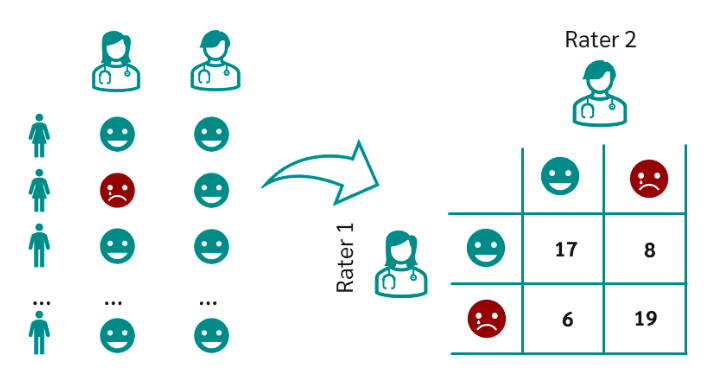
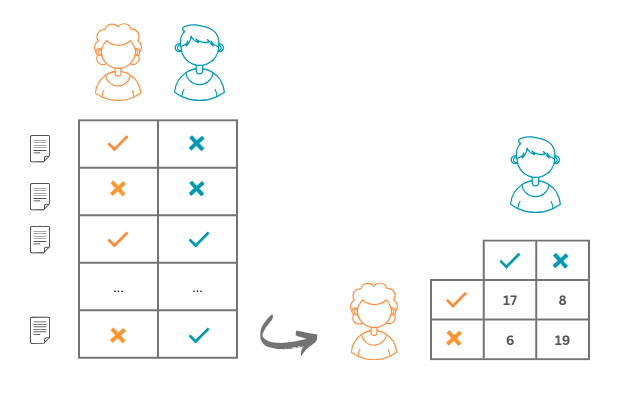
Popravke u lekciji Kako nastaju skupovi podataka

diff --git a/_sources/04_Uloga podataka/042_Kako nastaju skupovi podataka.rst b/_sources/04_Uloga podataka/042_Kako nastaju skupovi podataka.rst
@@ -1,10 +1,6 @@
 Како настају скупови података?
 ===============================
 
-.. |kns3| image:: ../../_images/kns3.png
-            :width: 100px
-
-
 .. infonote::
 
  У овој секцији ћемо одговорити на питање које ти је сигурно пало на памет у току читања садржаја: како настају скупови 
@@ -16,9 +12,13 @@
 са неког сензора, много чешће се за њихово креирање ангажује посебан тим који има одговарајуће вештине и знања и чије 
 активности треба координисати. 
 
+|
+
 Креирање скупа података започиње припремама **смерница и упутстава** које јасно описују задатак који се решева, дефинишу 
 изворе података, опсеге вредности, поделу података и ток комуникације унутар тима. Смернице обично садрже и опис алата 
 који ће се користити у раду као и одговоре на неке честе недоумице које могу да се јаве у току креирања скупа. 
+
+|
 
 Да би лакше ипратили сваки од ових корака, можемо у паралели пратити креирање скупа података за задатак препознавања 
 (детекције) лажних вести. Као што ти је познато, многе информације на вебу нису тачне - односе се на измишљене чињенице 
@@ -27,45 +27,63 @@
 Из угла машинског учења, задатак препознавања лажних вести се може посматрати као задатак бинарне класификације, 
 налик задатку класификације непожељне поште: за задати текст треба утврдити да ли је лажан или не. 
 
-Креирање скупа података започиње приступом изворима података. Извори података могу бити репозиторијуму у којима се већ 
+|
+
+Креирање скупа података започиње приступом изворима података. Извори података могу бити репозиторијуми у којима се већ 
 налазе делови скупа података, одређене странице са веба, кориснички-генерисани садржаји или било шта друго. 
 Смернице за креирање скупа података у овом случају дефинишу линкове до извора података и све што ближе одређује преузимање 
 садржаја. У примеру креирања скупа за задатак препознавања лажних вести, смернице би требало да садрже линкове до портала са којих се могу преузети новински 
 чланци за анализу, временске опсеге одређене почетним и крајњим датумом, језик чланака, можда и тему чланка. Приликом преузимања садржаја, обавезно се прате 
 права приступа и лиценце под којима су садржаји доступни. 
 
+|
+
 Након преузимања садржаја, прелази се на корак елементарне обраде података. Овај корак подразумева широк скуп радњи које се односе на додатну контролу 
 квалитета преузетих садржаја, усаглашавање формата записа, елиминацију дупликата или извора који не задовољавају неки екстерни критеријум (на пример, 
 новинска вест може бити превише кратка). 
 
+|
+
 Када се припреме садржаји, креира се тим који може да им придружи лабеле неопходне за решавање самог задатка и скуп смерница које описују њихове задатке. 
 Учесници који помажу у задацима креирања скупа података називају се **анотатори** или **лабелари**. Задатак лабелара је да у складу са смерницама свакој од улазних 
 вредности придруже одговарајућу излазну вредност. Тако, након што прочита вест, лабелар треба да придружи обележје које одговара тачној или лажној вести, на 
-пример, у смерницама за те сврхе могу бити наведени бројеви 0 и 1. Цео поступак придруживања обележја се назива анотација или **лабелирање**.
+пример, у смерницама за те сврхе могу бити наведени бројеви 0 и 1. Цео поступак придруживања обележја се назива **анотација** или **лабелирање**.
+
+|
 
 Пожељно је да улазне податке погледа и обележи већи број лабелара. Мотивација за овакав дизајн је већа поузданост самог скупа података. На пример, уколико 
 сваку вест у скупу вести прочита пет лабелара и свих пет се сложи да је вест лажна, можемо говорити о високој позданости. Уколико три лабелара кажу да је вест 
 лажна а два не, онда смо мање поуздани у резултат лабелирања. Оваква поставка нам заправо може указивати и да је задатак тежак, субјективан или да смернице 
 нису довољно јасне и прецизне и да би их требало допунити. 
 
+|
+
 Колико тачно лабелара ће бити укључено у сам процес, зависи од већег броја околности: временских рокова, распложивог буџета, поседовања одговарајућих 
 компетенција (на пример, за задатак препознавања лажних вести хтели бисмо да ангажујемо студенте журналистике или новинаре). Некада и сама природа задатка 
 сугерише бројност тима. Рецимо, у задацима класификације обично се бира непаран број лабелара како би увек једна група могла да ”надгласа” другу групу. 
+
+|
 
 Процес обележавања података може да изгледа и нешто другачије. На пример, сваку вест у скупу података може да прочита по један анотатор и придружи јој 
 одговарајуће обележје, а затим поново може да је прочита контролни анотатор и коригује обележје уколико је неопходно. Контролни анотатор је обично неко 
 ко има више доменског искуства и боље познаје сам проблем и који брзо може проверити коректност анотације. 
 
+|
+
 Како усаглашеност лабелара директно утиче на квалитет скупа података, уобичајена је пракса коришћења формалних мере за њено оцењивање. Заједнички ћемо 
-упознати једну такву меру, Кохенову капу (није реч о одевном предмету који чува главу већ о грчком слову κ), а самостално можеш више истражити о мерама као 
-што је Клипендорфова алфа (опет је у питању грчко слово), Флесиова капа и друге. 
+упознати једну такву меру, Кохенову капу (није реч о одевном предмету који чува главу већ о грчком слову :math:`\kappa`), а самостално можеш више истражити о мерама као 
+што је Клипендорфова алфа, Флесиова капа и друге. 
+
+|
  
-Кохенова капа је мера која се користи за проверу усаглашености обележавања између два лабелара. Треба имати на уму да провера усаглашености није исто што и 
+**Кохенова капа** је мера која се користи за проверу усаглашености обележавања између два лабелара. Треба имати на уму да провера усаглашености није исто што и 
 провера тачности (када креирамо скуп података немамо референтне вредности) - два лабелара могу бити усаглашена и оба придружити погрешну лабелу. 
+
+|
 
 Претпоставимо да су лабелари Ана и Бранко обележавали 50 новинских вести: за 17 су се сложили да су тачне, за 19 да су лажне, док се су на преосталим вестима 
 њихова мишљења мимоишла. Резултате њиховоих обележавања можемо приказати схемом као на доњој слици.  То значи да се њихова реализована усаглашеност 
-(обележавамо је са po) може израчунати као количник  po = (17+19)/50 = 0,72 тј. као количник броја вести за које су се обележја преклопила и укупног броја 
+(обележавамо је са :math:`p_o`) може израчунати као количник  :math:`p_o = \frac{17 + 19}{50} = 0.72` тј. као количник броја вести за које су се обележја преклопила и укупног броја 
 вести.
 
 .. image:: ../../_images/kns1.png
@@ -75,23 +93,24 @@
 Могло се десити и да су се обележја која су Ана и Бранко придруживали новинским вестима сасвим насумична: рецимо, могли су бацати новчић и ако падне глава 
 закључити да је вест тачна, а ако падне писмо да је лажна. И у овом хипотетичком случају би опет дошло до неки преклапања. Вероватноћу једног таквог догађаја 
 би могли израчунати као вероватноћу истовременог избора две тачне вести или истовременог избора две нетачне вести из скупа вести. Вероватноћа избора тачне 
-вести за Ану је 25/50, док је за Бранка 23/30. Слично, вероватноћа избора лажне вести за Ану је 25/50, док је за Бранка 27/50. Тако се вероватноћа насумичног 
-преклапања може израчунати као збир производа поменутих вероватноћа истовременог избора или две тачне или две нетачне вести. Ову вероватноћу зовемо насумичном 
-усаглашеношћу (обележавамо је са pe) и на доњој слици можеш још једном видети како је иурачунавамо.
+вести за Ану је :math:`\frac{25}{50}`, док је за Бранка :math:`\frac{23}{50}`. Слично, вероватноћа избора лажне вести за Ану је :math:`\frac{25}{50}`, док је за Бранка:math:`\frac{27}{50}`. 
+Тако се вероватноћа насумичног преклапања може израчунати као збир производа поменутих вероватноћа истовременог избора или две тачне или две нетачне вести. Ову вероватноћу зовемо насумичном 
+усаглашеношћу (обележавамо је са :math:`p_e`). У нашем случају она износи :math:`p_e = \frac{25}{50} \cdot \frac{23}{50} + frac{25}{50} \cdot \frac{27}{50} = 0.5`. 
 
 .. image:: ../../_images/kns2.png
   :width: 500
   :align: center
 
 
-Ово нас доводи до вредности капа коефицијента: |kns3|.
-
-С обзиром на значење вредности pо и pe можемо закључити да се на овај начин мери усаглашеност анотатора у односу на насумично обележавање. Вредности овог 
+Ово нас доводи до вредности капа коефицијента: :math:`\kappa = \frac{p_o - p_e}{1 - p_e}`. С обзиром на значење вредности :math:`p_o` и :math:`p_e` можемо 
+закључити да се на овај начин мери усаглашеност анотатора у односу на насумично обележавање. Вредности овог 
 коефицијента су у распону од -1 до 1, а веће вредности означавају бољу усаглашеност.
 
-Заменом израчунатих вредности, за скуп вести на којима су радили Ана и Бранко добијамо да Кохенова капа износи 0,44. Ову вредност, даље можемо интерптретира у 
+|
+
+Заменом израчунатих вредности, за скуп вести на којима су радили Ана и Бранко добијамо да Кохенова капа износи 0,44. Ову вредност, даље можемо интерпретира у 
 складу са неким устаљеним протоколима и закључити о квалитету нашег скупа података. Једна таква интерпретација је наведена ниже у табели. Како је вредност 
-коефицијента већа од 0.4 али мања од 0.6 можемо да закључимо да је реч о умереној усаглашености лабелара - то даље може значити да морамо да поправимо и 
+коефицијента већа од 0,4 али мања од 0,6 можемо да закључимо да је реч о умереној усаглашености лабелара - то даље може значити да морамо да поправимо и 
 допунимо смернице или да боље обучимо лабеларе за рад. 
 
 .. figure:: ../../_images/kns4.png
@@ -109,9 +128,13 @@
 `Universal Data Tool <https://universaldatatool.com/>`_, `Prodigy <https://prodi.gy/>`_, `Appen <https://appen.com/>`_ и друге које омогућавају рад са свим врстама 
 садржаја. 
 
+|
+
 Занимљиво је напоменути да постоје и платформе које аутоматизују цео процес креирања скупа података: од дефинисања задатака, упошљавања лабелара, придруживања 
 одређеног скупа улаза лабелару, па до праћења усаглашености анотатора и извожења креираног скупа. Једна таква платформа, вероватно најпознатија, је 
 `Mechanical Turk <https://www.mturk.com/>`_ компаније Amazon. 
+
+|
 
 Још један аспект који директно може да утиче на квалитет креираног скупа података је пристрастност. Рецимо, ако у скупу за класификацију вести има несразмерно 
 више коректних вести у односу на лажне вести, многи алгоритми машинског учења неће бити у могућности да науче да разликују ове две класе вести. Слично, 
@@ -128,8 +151,8 @@
  буду све вести из једне групе једна до друге) а другу колону остави за лабеле. Пошаљи овај фајл својим пријатељима и замоли их да обележе лажне вести. 
  Не заборави да им напишеш и прецизне смернице! Када ти врате обележене вести, споји све лабеле у једну табелу и процени квалитет свог скупа користећи 
  Кохенову капу. Да ли си задовољан резултатом?
-
-Приликом креирања табеле ће ти можда пасти на памет да одмах направиш три колоне, једну са вестима и две додатне колоне за лабеле, за сваког пријатеља по 
+ 
+ Приликом креирања табеле ће ти можда пасти на памет да одмах направиш три колоне, једну са вестима и две додатне колоне за лабеле, за сваког пријатеља по 
 једну, и да ту табелу поставиш негде у облаку тако да  је сви видите. То није добар корак јер када један анотатор може да види лабеле другог анотатора то 
 може да утиче на његову одлуку и размишљање. И то је једна врста пристрасности. Зато увек одвајамо послове анотатора и лабеле које придружују. 
 
